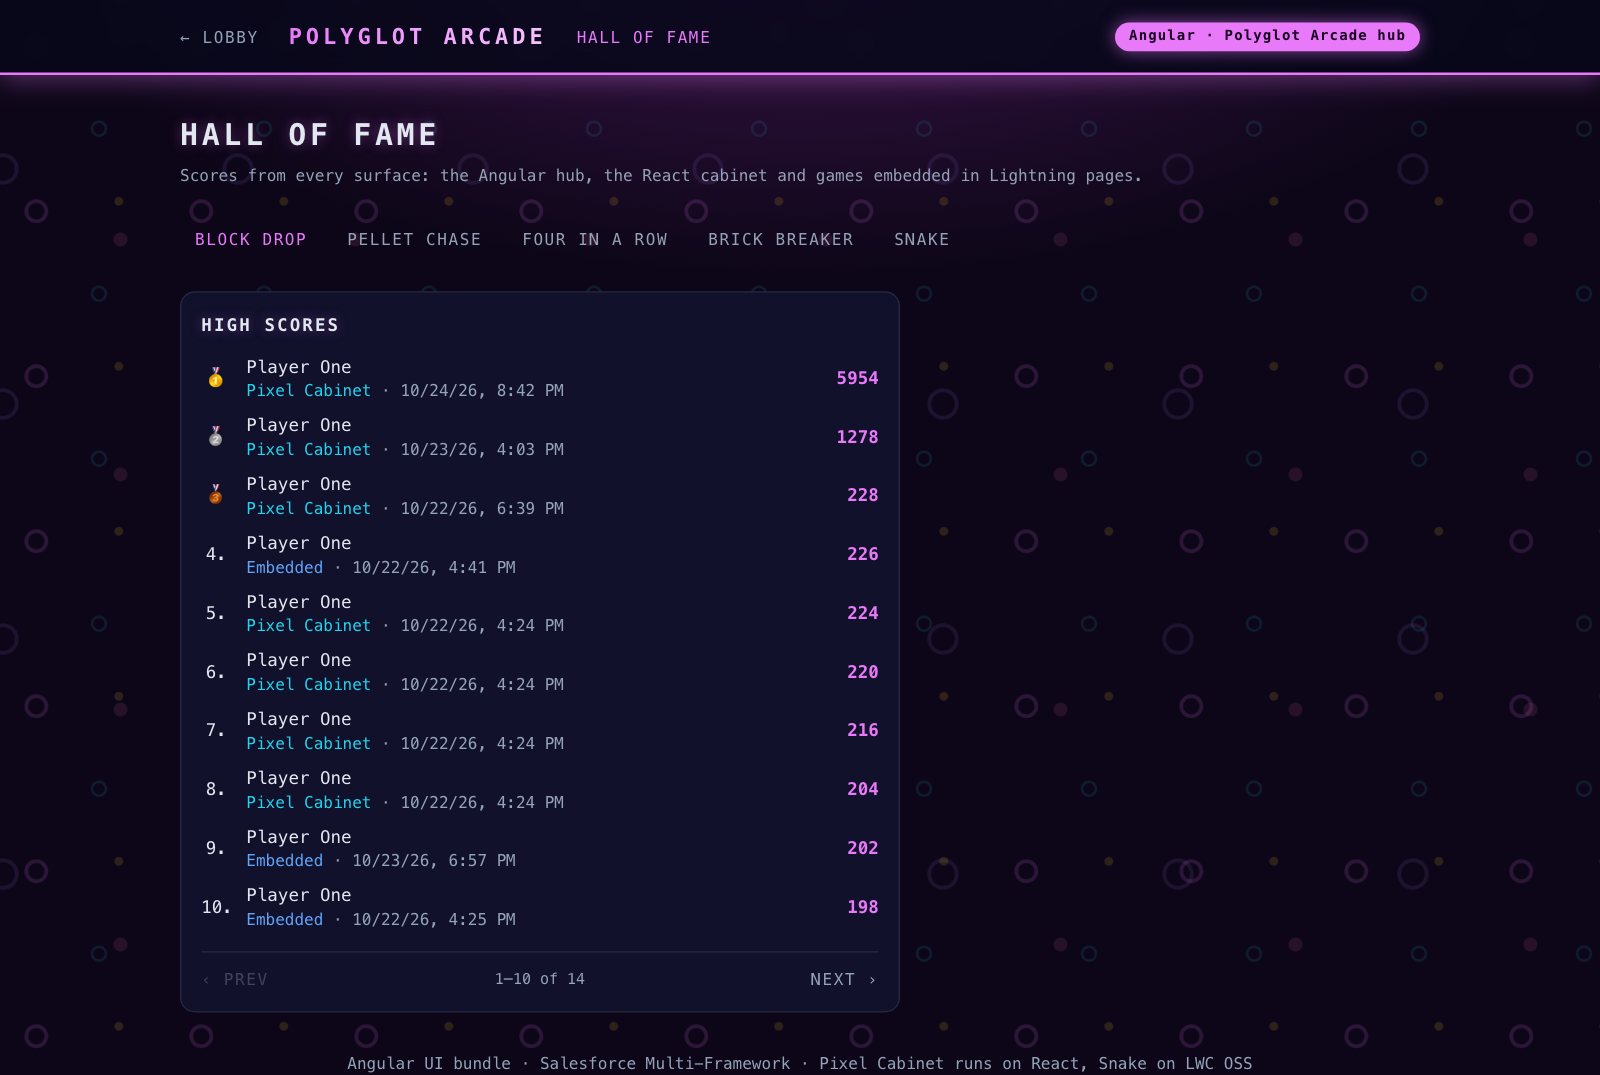
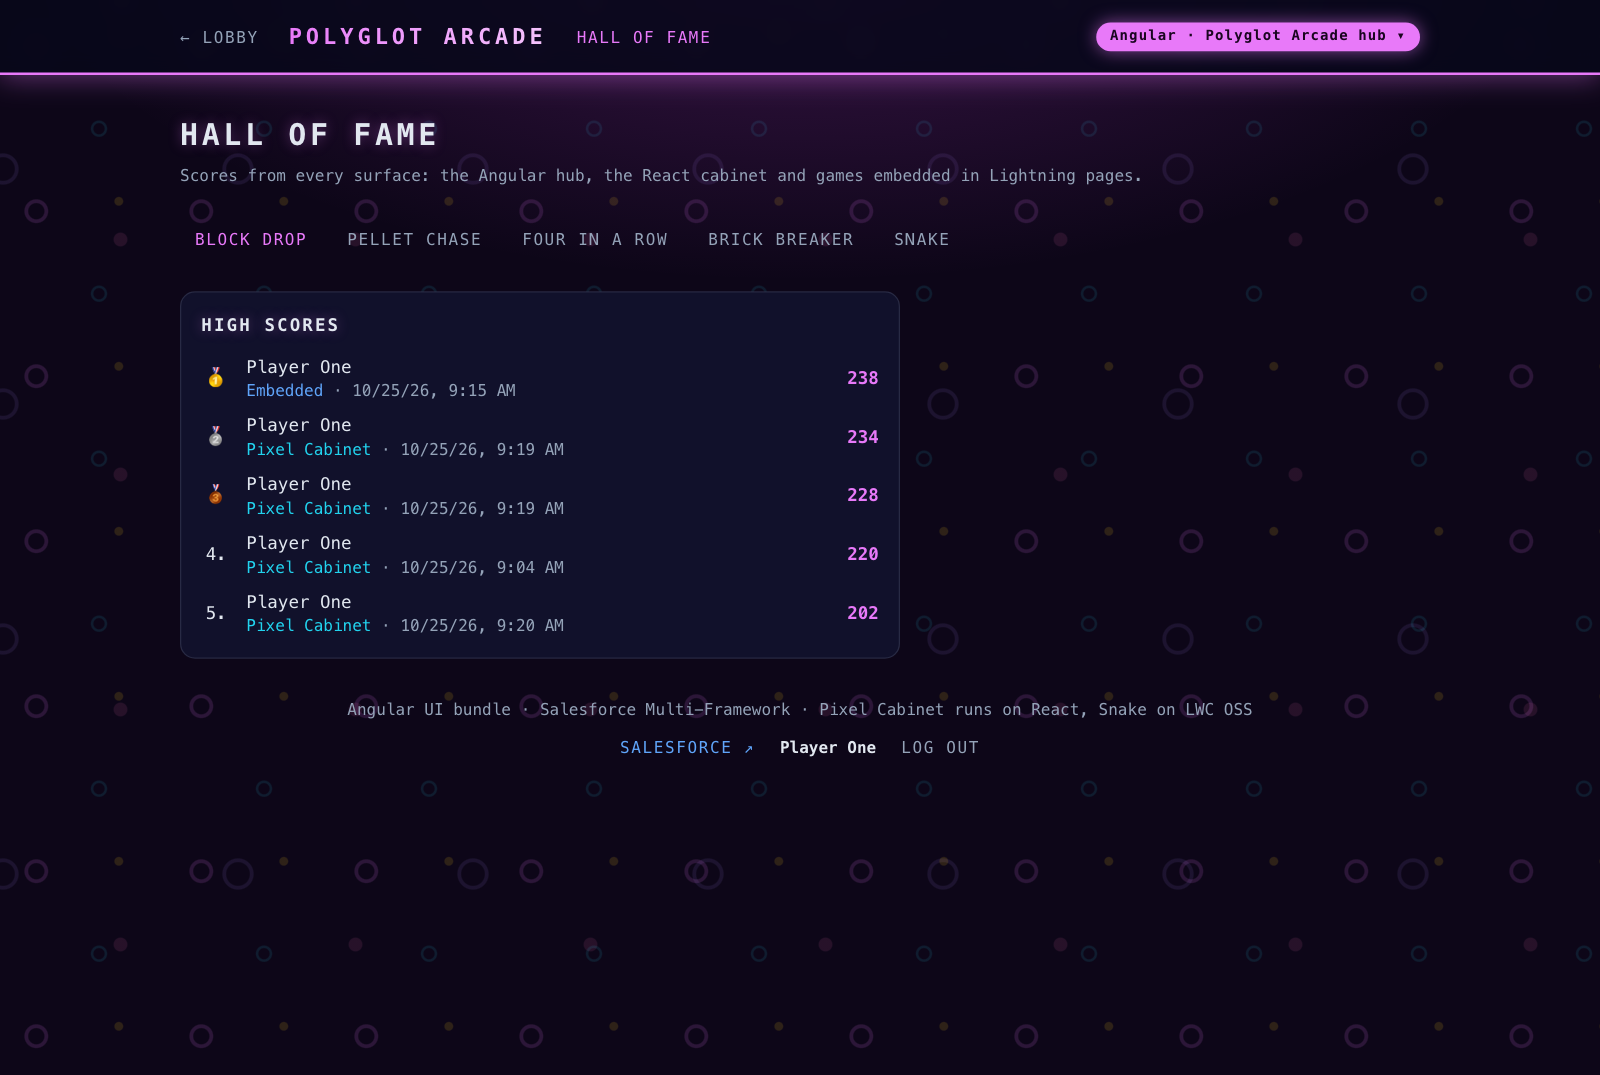
docs(images): fresh screenshots from the v1.0.0 release acceptance
One set for the README and the docs, taken in a fresh scratch org after
playing every game on every surface.

diff --git a/docs/games.md b/docs/games.md
@@ -78,7 +78,7 @@ Every column tells a screen reader which discs it holds and how many places are 
 
 The hub's hall of fame lists the rounds of every game across all surfaces, ten per page, the source of each round in the color of its surface.
 
-<img class="shot" src="../images/hall-of-fame.png" alt="Hall of fame listing ten scores per page, the source of each round in the color of its surface" />
+<img class="shot" src="../images/hall-of-fame.png" alt="Hall of fame with a tab per game, the source of each round - embedded or Pixel Cabinet - in the color of its surface" />
 
 ## Playable by everyone
 
